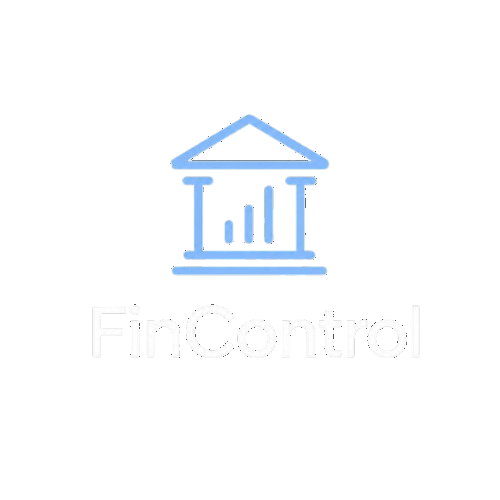
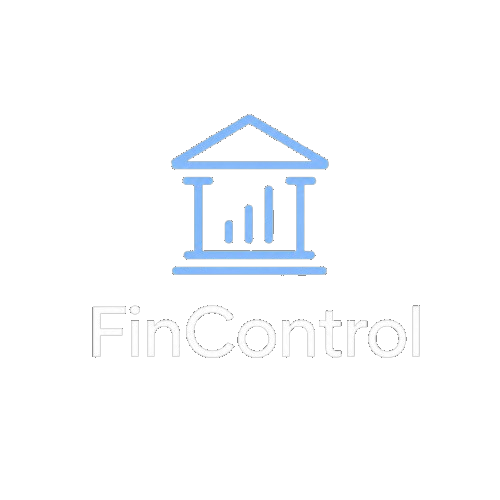
fix: revert to original user png and remove background carefully

diff --git a/resources/views/auth/login.blade.php b/resources/views/auth/login.blade.php
@@ -16,7 +16,7 @@
     <div class="login-wrap">
         <div class="login-box">
             <div class="login-logo">
-                <img src="{{ asset('fincontrol.svg') }}?v={{ time() }}" alt="FinControl Logo" style="max-height: 80px; margin-bottom: 16px; object-fit: contain;">
+                <img src="{{ asset('fincontrol.png') }}?v={{ time() }}" alt="FinControl Logo" style="max-height: 80px; margin-bottom: 16px; object-fit: contain;">
                 <p>{{ __('Gestão financeira empresarial') }}</p>
             </div>
             <div class="card">

diff --git a/resources/views/layouts/app.blade.php b/resources/views/layouts/app.blade.php
@@ -50,7 +50,7 @@
         {{-- SIDEBAR --}}
         <div class="sidebar" id="sidebar">
             <div class="sidebar-logo" style="padding: 10px 0;">
-                <img src="{{ asset('fincontrol.svg') }}?v={{ time() }}" alt="FinControl Logo" style="max-height: 40px; object-fit: contain;">
+                <img src="{{ asset('fincontrol.png') }}?v={{ time() }}" alt="FinControl Logo" style="max-height: 40px; object-fit: contain;">
             </div>
             <div class="sidebar-inner">
                 <div class="nav-section">

diff --git a/README.md b/README.md
@@ -1,6 +1,6 @@
 <div align="center">
 
-<img src="public/fincontrol.svg" alt="FinControl Logo" width="240">
+<img src="public/fincontrol.png" alt="FinControl Logo" width="240">
 
 # 🏛️ FinControl
 